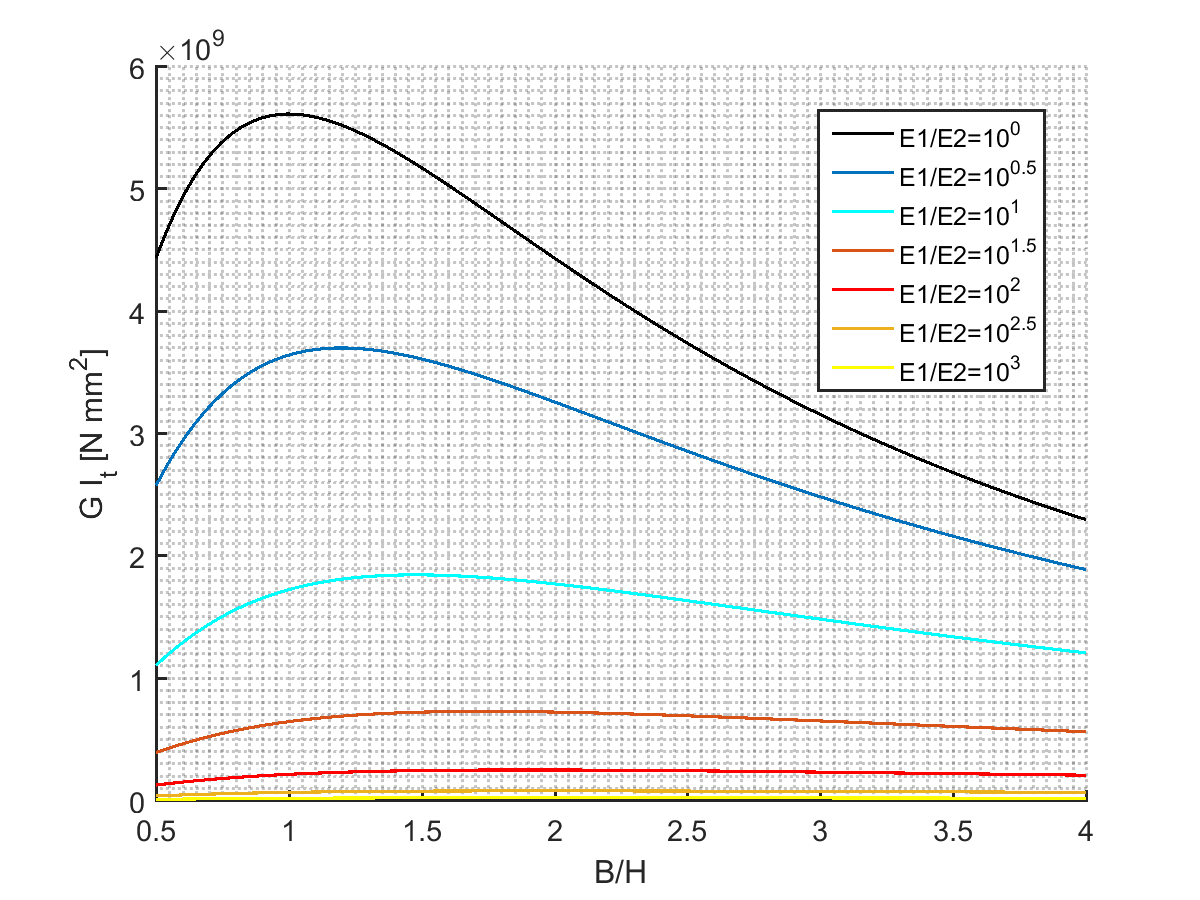
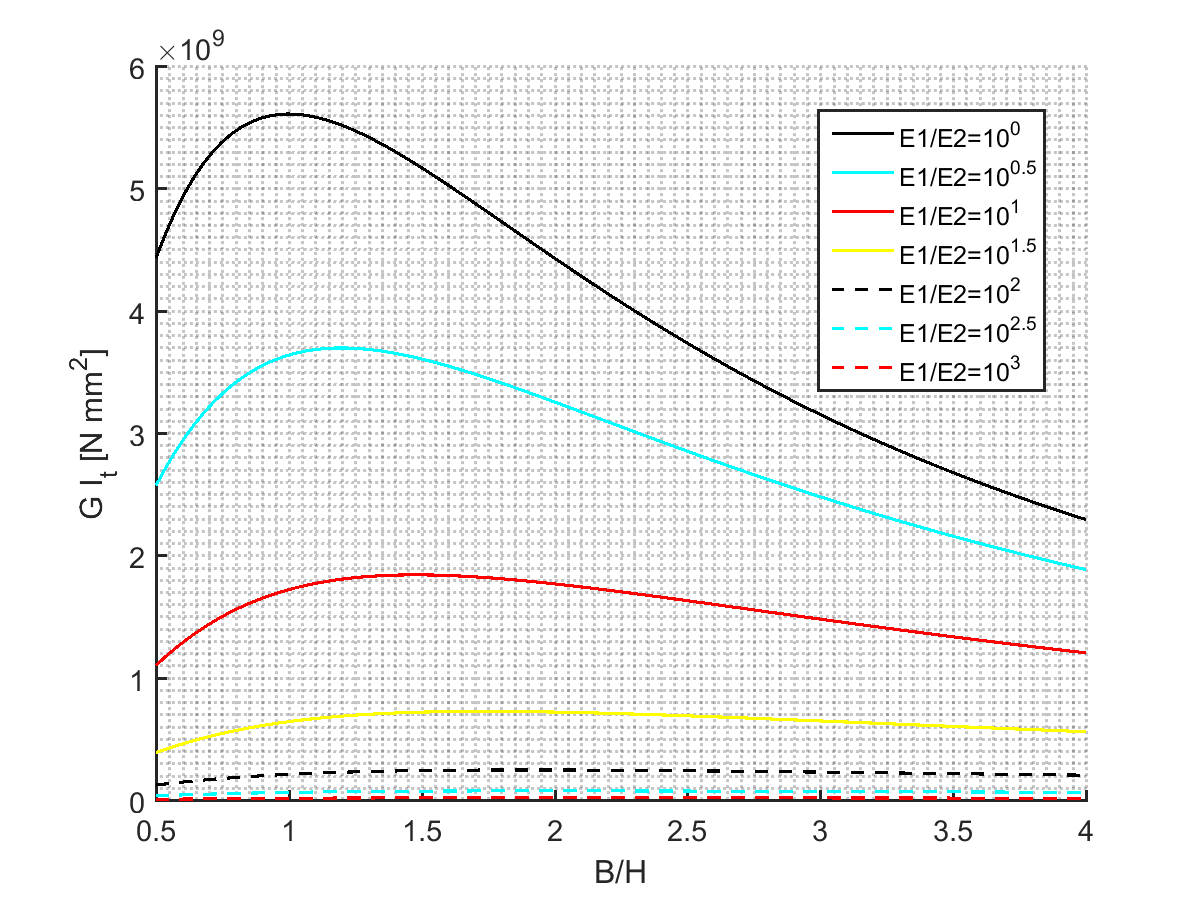
To be corrected completelly

diff --git a/variationParameters.m b/variationParameters.m
@@ -116,11 +116,20 @@ hold on
 
 y_plots = zeros(1, length(study.E1overE2));
 legendStr = cell(1, length(study.E1overE2));
+i_plot = 1;
+j_plot = 1;
 for i= 1:length(study.E1overE2)
-	y_plots(i) = plot(ax, study.BoverH, study.result_GIt_BoverH(i, :), 
-		'Color', plotSettings.lineColor(i), 'LineStyle',plotSettings.lineStyle(floor((i+4)/4)),
+	y_plots(i) = plot(ax, study.BoverH, study.result_GIt_BoverH(i, :), ...
+		'Color', plotSettings.lineColor{i_plot}, 'LineStyle',plotSettings.lineStyle{j_plot}, ...
 		'LineWidth', plotSettings.LineWidth);
+    j = floor(i/4) - j;
 	legendStr{i} = ['E1/E2=10^{' num2str(round(log10(study.E1overE2(i)), 2)) '}'];
+    if i_plot == 4
+        i_plot = 1;
+        j_plot = j_plot + 1;
+    else
+        i_plot = i_plot + 1;
+    end
 end
 
 
@@ -146,8 +155,8 @@ hold on
 y_plots = zeros(1, length(study.E1overE2));
 legendStr = cell(1, length(study.E1overE2));
 for i= 1:length(study.E1overE2)
-	y_plots(i) = plot(ax, study.BoverH, study.result_ySC_BoverH(i, :), 
-		'Color', plotSettings.lineColor(i), 'LineStyle',plotSettings.lineStyle(floor((i+4)/4)),
+	y_plots(i) = plot(ax, study.BoverH, study.result_ySC_BoverH(i, :), ...
+		'Color', plotSettings.lineColor{i}, 'LineStyle',plotSettings.lineStyle{floor((i+4)/4)}, ...
 		'LineWidth', plotSettings.LineWidth);
 	legendStr{i} = ['E1/E2=10^{' num2str(round(log10(study.E1overE2(i)), 2)) '}'];
 end
@@ -174,9 +183,9 @@ hold on
 y_plots = zeros(1, length(study.E1overE2));
 legendStr = cell(1, length(study.E1overE2));
 for i= 1:length(study.E1overE2)
-	y_plots(i) = plot(ax, study.BoverH, study.Phi_y(i, :), 
-		'Color', plotSettings.lineColor(i), 'LineStyle',plotSettings.lineStyle(floor((i+4)/4)),
-		'LineWidth', plotSettings.LineWidth);
+	y_plots(i) = plot(ax, study.BoverH, study.Phi_y(i, :), ...
+		'Color', plotSettings.lineColor{i}, 'LineStyle',plotSettings.lineStyle{floor((i+4)/4)}, ...
+		'LineWidth', plotSettings.LineWidth); 
 	legendStr{i} = ['E1/E2=10^{' num2str(round(log10(study.E1overE2(i)), 2)) '}'];
 end
 
@@ -227,8 +236,8 @@ hold on
 y_plots = zeros(1, length(study.E1overE2));
 legendStr = cell(1, length(study.E1overE2));
 for i= 1:length(study.E1overE2)
-	y_plots(i) = plot(ax, study.t2overt1, study.result_GIt_t2overt1(i, :), 
-		'Color', plotSettings.lineColor(i), 'LineStyle',plotSettings.lineStyle(floor((i+4)/4)),
+	y_plots(i) = plot(ax, study.t2overt1, study.result_GIt_t2overt1(i, :), ...
+		'Color', plotSettings.lineColor{i}, 'LineStyle',plotSettings.lineStyle{floor((i+4)/4)}, ...
 		'LineWidth', plotSettings.LineWidth);
 	legendStr{i} = ['E1/E2=10^{' num2str(round(log10(study.E1overE2(i)), 2)) '}'];
 end
@@ -256,8 +265,8 @@ hold on
 y_plots = zeros(1, length(study.E1overE2));
 legendStr = cell(1, length(study.E1overE2));
 for i= 1:length(study.E1overE2)
-	y_plots(i) = plot(ax, study.t2overt1, study.result_ySC_t2overt1(i, :), 
-		'Color', plotSettings.lineColor(i), 'LineStyle',plotSettings.lineStyle(floor((i+4)/4)),
+	y_plots(i) = plot(ax, study.t2overt1, study.result_ySC_t2overt1(i, :), ...
+		'Color', plotSettings.lineColor{i}, 'LineStyle',plotSettings.lineStyle{floor((i+4)/4)}, ...
 		'LineWidth', plotSettings.LineWidth);
 	legendStr{i} = ['E1/E2=10^{' num2str(round(log10(study.E1overE2(i)), 2)) '}'];
 end
@@ -284,8 +293,8 @@ hold on
 y_plots = zeros(1, length(study.E1overE2));
 legendStr = cell(1, length(study.E1overE2));
 for i= 1:length(study.E1overE2)
-	y_plots(i) = plot(ax, study.t2overt1, study.Phi_y(i, :), 
-		'Color', plotSettings.lineColor(i), 'LineStyle',plotSettings.lineStyle(floor((i+4)/4)),
+	y_plots(i) = plot(ax, study.t2overt1, study.Phi_y(i, :), ...
+		'Color', plotSettings.lineColor{i}, 'LineStyle',plotSettings.lineStyle{floor((i+4)/4)}, ...
 		'LineWidth', plotSettings.LineWidth);
 	legendStr{i} = ['E1/E2=10^{' num2str(round(log10(study.E1overE2(i)), 2)) '}'];
 end
